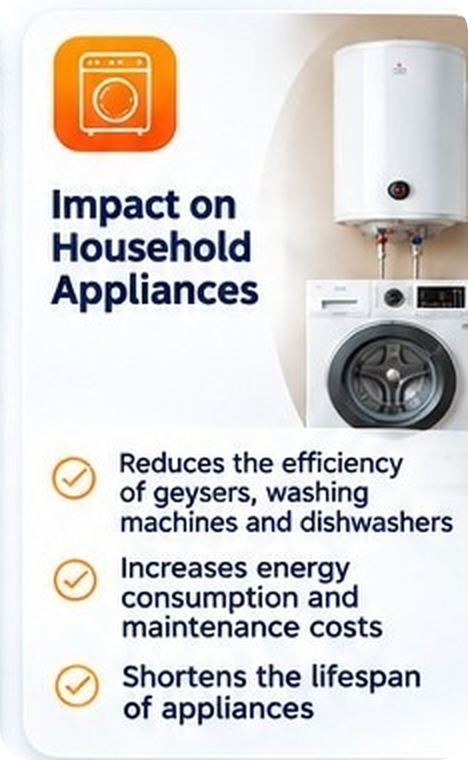
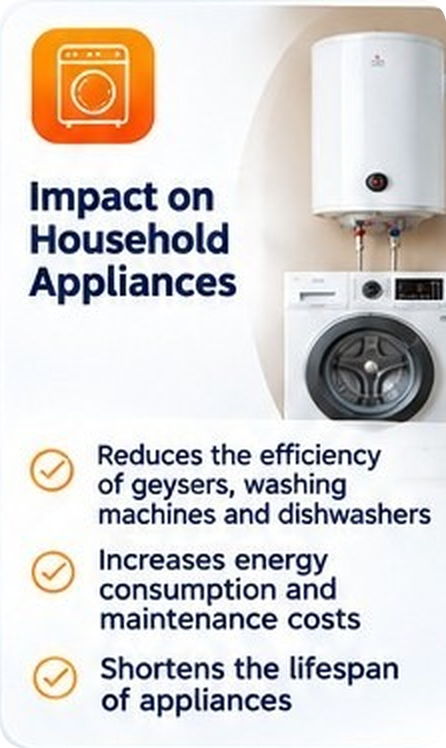
Fix card margins and remove side shadow gaps for perfect fit

diff --git a/src/components/ProblemsWithHardWater.jsx b/src/components/ProblemsWithHardWater.jsx
@@ -93,11 +93,11 @@ export default function ProblemsWithHardWater() {
                 aria-label={`View details about ${problem.title}`}
               >
                 {/* Exact Card Graphic Image */}
-                <div className="relative w-full aspect-[468/760] overflow-hidden bg-white">
+                <div className="relative w-full overflow-hidden bg-white">
                   <img
                     src={problem.cardImage}
                     alt={problem.title}
-                    className="w-full h-full object-contain transform group-hover:scale-[1.025] transition-transform duration-400 ease-out"
+                    className="w-full h-auto block object-cover transform group-hover:scale-[1.02] transition-transform duration-300 ease-out"
                     loading="lazy"
                   />
                   
@@ -306,3 +306,4 @@ export default function ProblemsWithHardWater() {
     </section>
   );
 }
+

diff --git a/src/data/problems.js b/src/data/problems.js
@@ -148,3 +148,4 @@ export const HARD_WATER_PROBLEMS = [
     whatsappMessage: "Hi Bounten Team, My clothes and towels feel rough and stiff with hard water stains. Which Bounten Zoftner system do you recommend for laundry and home water?"
   }
 ];
+
